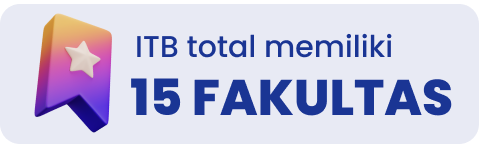
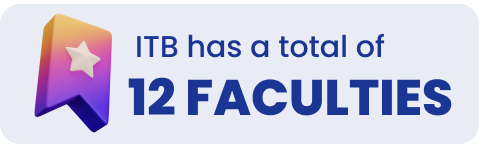
fix: faculty number

Changed region(s): [[0.263, 0.5278, 0.8768, 0.8056], [0.38, 0.2222, 0.8184, 0.4167]]

diff --git a/app/page.tsx b/app/page.tsx
@@ -23,9 +23,6 @@ const slideData = [
   { title: "Sekolah Arsitektur, Perencanaan dan Pengembangan Kebijakan (SAPPK)", description: "Lorem ipsum dolor sit amet, consectetur adipiscing elit. Nullam euismod velit vel nunc faucibus," },
   { title: "Sekolah Bisnis dan Manajemen (SBM)", description: "Sed do eiusmod tempor incididunt ut labore et dolore magna aliqua. Ut enim ad minim veniam, Duis aute irure dolor in reprehenderit," },
   { title: "Sekolah Farmasi (SF)", description: "Quis nostrud exercitation ullamco laboris nisi ut aliquip ex ea commodo consequat. Duis aute irure dolor in ," },
-  { title: "Sekolah Teknik Elektro Informatika (STEI)", description: "Lorem ipsum dolor sit amet, consectetur adipiscing elit. Nullam euismod velit vel nunc faucibus," },
-  { title: "Fakultas Teknik Industri (FTI)", description: "Sed do eiusmod tempor incididunt ut labore et dolore magna aliqua. Ut enim ad minim veniam, Duis aute irure dolor in reprehenderit," },
-  { title: "Fakultas Teknik Mesin dan Dirgantara (FTMD)", description: "Quis nostrud exercitation ullamco laboris nisi ut aliquip ex ea commodo consequat. Duis aute irure dolor in ," },
 ];
 
 export default function Home() {
@@ -121,7 +118,7 @@ export default function Home() {
       </div>
 
       <div className="fakultas">
-      <h1 className='font-semibold text-bold text-7xl pb-10 flex items-center justify-center text-[#1A3594]' style={{ textShadow: "3px 3px 5px rgba(0, 0, 0, 0.25)" }}>Fakultas</h1>
+      <h1 className='font-semibold text-bold text-7xl pb-10 flex items-center justify-center text-[#1A3594]' style={{ textShadow: "3px 3px 5px rgba(0, 0, 0, 0.25)" }}>Faculties</h1>
         <div className="flex flex-wrap max-w-screen-lg mx-auto">
           <div className="w-full px-4 md:w-1/2 flex flex-col items-center">
             <p className="text-xs text-[#1A3594] mb-10 xl:text-md text-left">
@@ -135,7 +132,7 @@ export default function Home() {
               Phasellus eget eros non nisi lacinia bibendum.
             </p>
           </div>
-          <div className="w-full px-4 md:w-1/2 flex items-center justify-center">
+          <div className="w-full px-4 mb-4 md:w-1/2 flex items-center justify-center">
             <img src="faculty.png" alt="" className="max-w-full" />
           </div>
         </div>

diff --git a/app/components/LoginForm.tsx b/app/components/LoginForm.tsx
@@ -6,7 +6,6 @@ import { useEffect } from "react";
 import { signIn,useSession,signOut } from "next-auth/react";
 import React from "react";
 import Link from "next/link";
-import Image from "next/image";
 
 export default function LoginForm() {
     const [email, setEmail] = useState("");

diff --git a/app/components/RegisterForm.tsx b/app/components/RegisterForm.tsx
@@ -2,7 +2,6 @@
 
 import React, { useState } from "react";
 import Link from "next/link";
-import Image from "next/image";
 
 export default function RegisterForm() {
     const [email, setEmail] = useState("");
